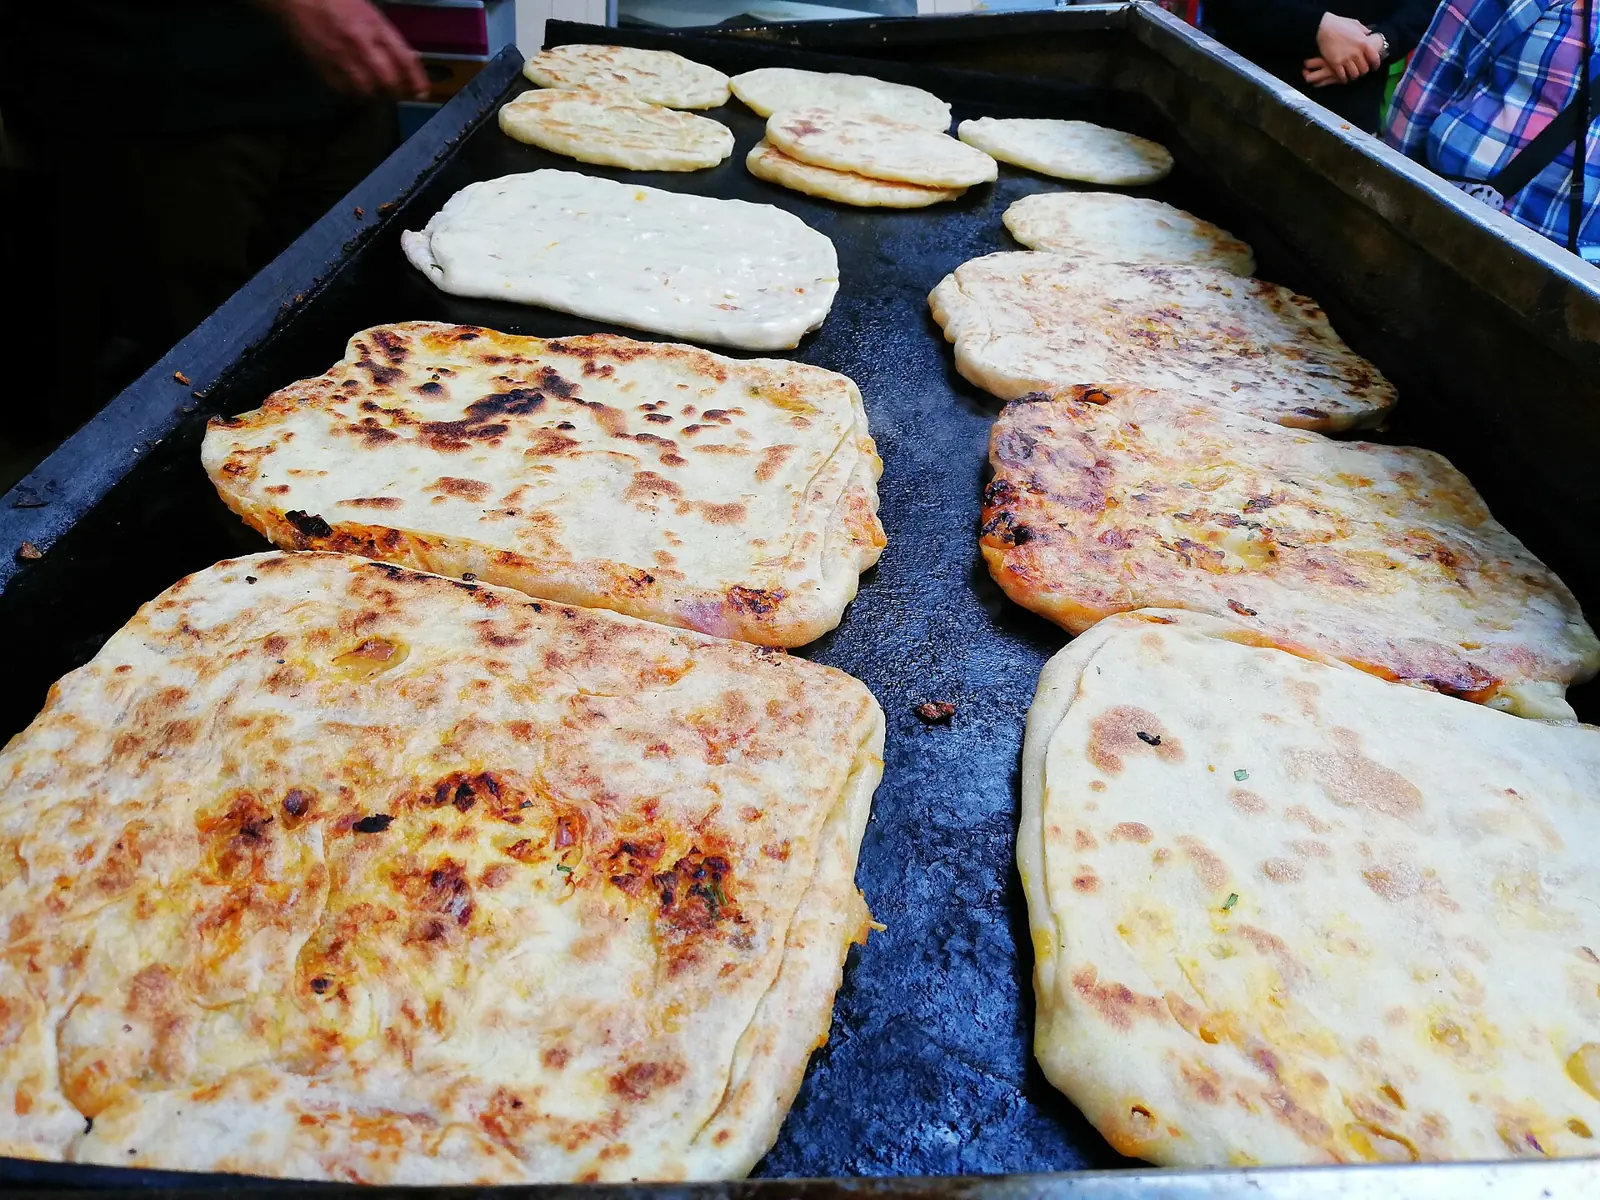
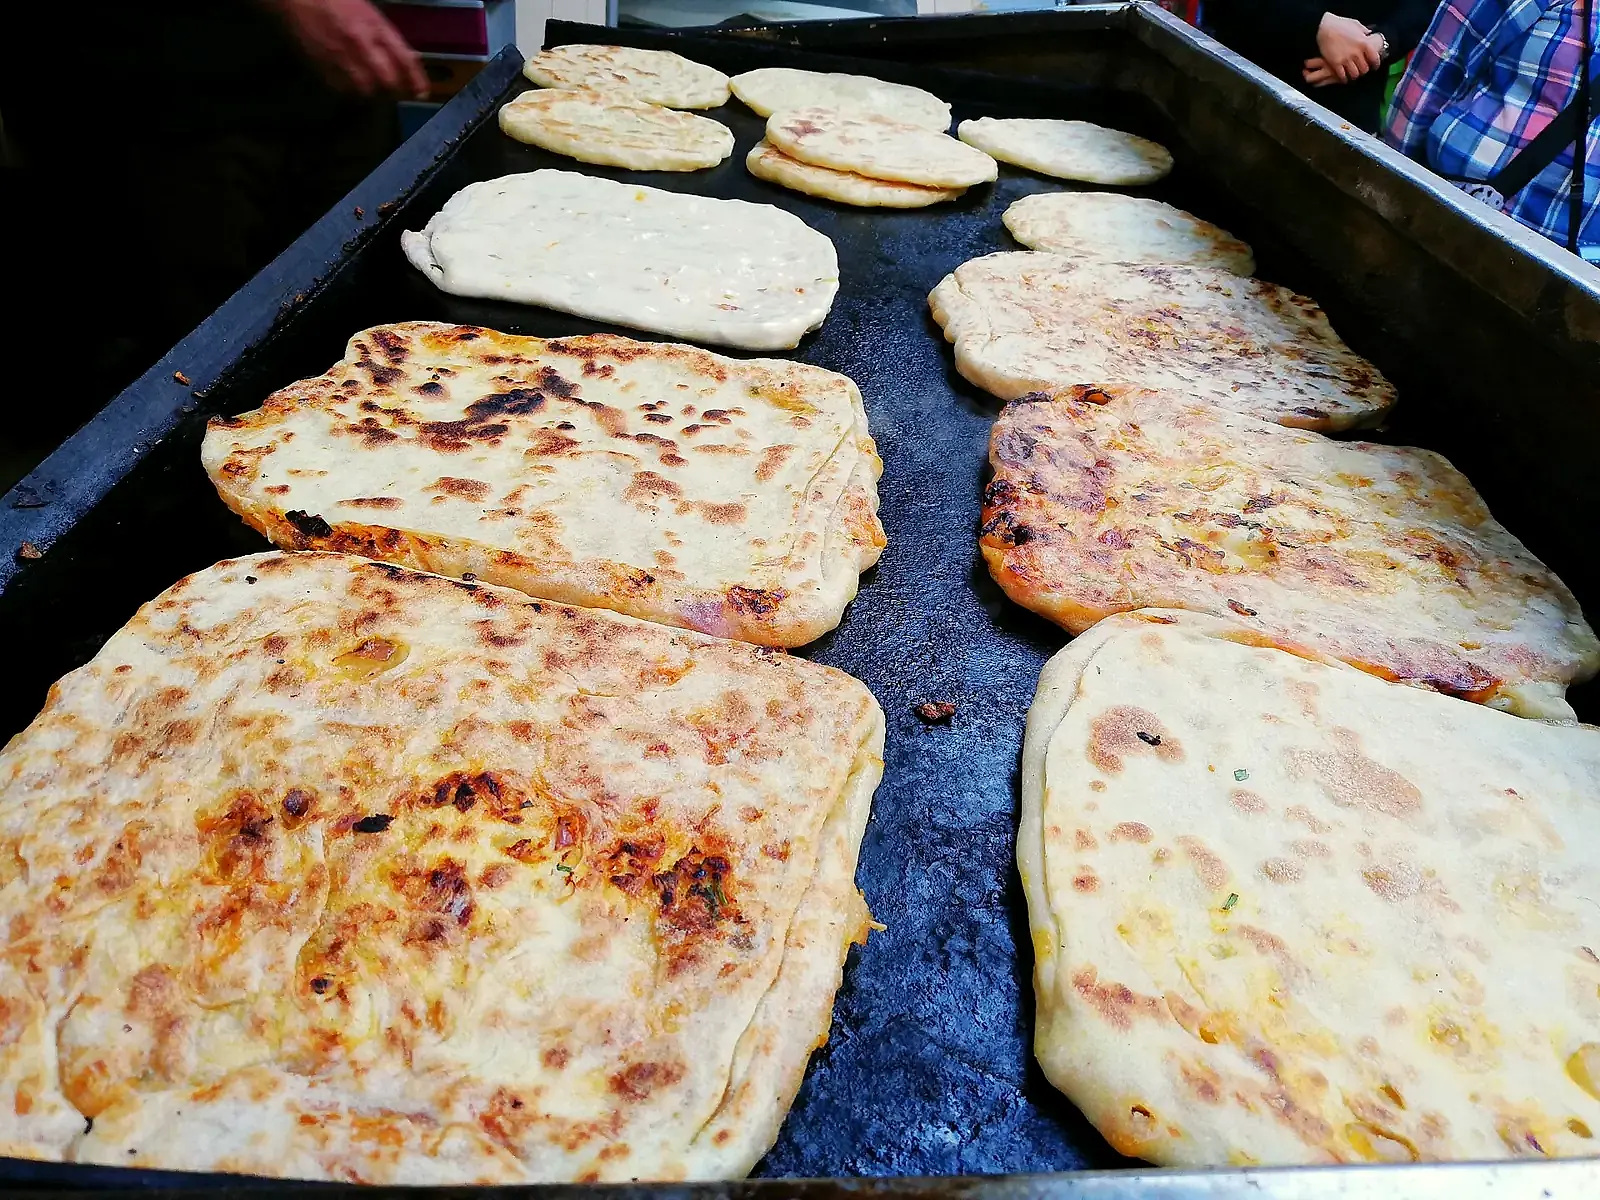
feat(media): apply a consistent grade to AWID food photos

diff --git a/packages/media/test/photo-crop.test.ts b/packages/media/test/photo-crop.test.ts
@@ -125,3 +125,35 @@ describe("photo crop encoding", () => {
     ).resolves.toEqual({ status: "rejected", reason: "content_type_mismatch" });
   });
 });
+
+it.each(["item", "cover"] as const)(
+  "[MER-14:codec] applies a warmer grade to %s photos while preserving logo colours",
+  async (kind) => {
+    const bytes = await sharp({
+      create: { width: 256, height: 192, channels: 3, background: "#888888" },
+    })
+      .png()
+      .toBuffer();
+    async function colour(photoKind: typeof kind | "logo") {
+      const photo = await cropPhoto({
+        bytes,
+        contentType: "image/png",
+        kind: photoKind,
+        crop: center,
+      });
+      if (photo.status !== "cropped") throw new Error("Missing crop");
+      const variant = photo.variants.find(
+        ({ width, format }) => width === 160 && format === "webp",
+      );
+      if (!variant) throw new Error("Missing WebP");
+      return sharp(variant.bytes)
+        .extract({ left: 50, top: 50, width: 1, height: 1 })
+        .raw()
+        .toBuffer();
+    }
+    const [red = 0, , blue = 0] = await colour(kind);
+    const [logoRed = 0, , logoBlue = 0] = await colour("logo");
+    expect(red - blue).toBeGreaterThan(5);
+    expect(Math.abs(logoRed - logoBlue)).toBeLessThanOrEqual(3);
+  },
+);

diff --git a/packages/media/src/photo-crop.ts b/packages/media/src/photo-crop.ts
@@ -5,6 +5,7 @@ import { rgbaToThumbHash } from "thumbhash";
 import type { DecodedRgba } from "./heic-decoder.js";
 import { decodePhoto, rawImage } from "./photo-decode.js";
 import type { PhotoInput, RejectedPhoto } from "./photo-decode.js";
+import { gradeFoodPhoto } from "./photo-style.js";
 
 type PhotoCrop = ReturnType<typeof mediaCropInput.parse>;
 type PhotoKind = keyof typeof photoRatios;
@@ -48,11 +49,11 @@ async function decodeCrop(input: CropPhotoInput, ratio: Dimensions) {
   if ("status" in rgba) return rgba;
 
   const height = (maximumVariantWidth * ratio.height) / ratio.width;
-  const bytes = await rawImage(rgba)
+  const crop = rawImage(rgba)
     .extract(cropRegion(rgba, ratio, input.crop))
-    .resize(maximumVariantWidth, height, { fit: "fill" })
-    .raw()
-    .toBuffer();
+    .resize(maximumVariantWidth, height, { fit: "fill" });
+  const photo = input.kind === "item" || input.kind === "cover" ? gradeFoodPhoto(crop) : crop;
+  const bytes = await photo.raw().toBuffer();
   return { bytes, width: maximumVariantWidth, height };
 }
 

diff --git a/apps/web/src/marketing/photo-credits.ts b/apps/web/src/marketing/photo-credits.ts
@@ -221,12 +221,4 @@ export const photoCredits = [
     licenceUrl: "https://creativecommons.org/licenses/by-sa/3.0",
     source: "https://commons.wikimedia.org/wiki/File:Smen_msemmen.jpg",
   },
-  {
-    file: "/preview-catalog/shawarma.webp",
-    title: "Shawarma in central Aleppo, Syria.jpg",
-    author: "Vyacheslav Argenberg",
-    licence: "CC BY 4.0",
-    licenceUrl: "https://creativecommons.org/licenses/by/4.0",
-    source: "https://commons.wikimedia.org/wiki/File:Shawarma_in_central_Aleppo,_Syria.jpg",
-  },
 ] as const;

diff --git a/apps/web/src/marketing/credits-page.tsx b/apps/web/src/marketing/credits-page.tsx
@@ -28,6 +28,9 @@ export async function CreditsPage({ locale }: { locale: Locale }) {
                   {credit.title.replace(/\.(jpe?g|png|webp)$/iu, "").replaceAll("_", " ")}
                 </strong>
                 <span>{credit.author}</span>
+                {credit.file.startsWith("/preview-catalog/") && (
+                  <span dir="auto">{translate("creditsFoodEdits")}</span>
+                )}
                 <span>
                   {credit.licenceUrl === null ? (
                     credit.licence

diff --git a/packages/media/src/photo-style.ts b/packages/media/src/photo-style.ts
@@ -1,0 +1,6 @@
+import type { Sharp } from "sharp";
+
+/** AWID's food grade. Keep whites near neutral and sharpen texture without hard halos. */
+export function gradeFoodPhoto(image: Sharp): Sharp {
+  return image.linear([1.05, 1.025, 0.99], [-3, -3, -4]).sharpen({ sigma: 0.65 });
+}

diff --git a/apps/web/src/discovery/preview-catalog.ts b/apps/web/src/discovery/preview-catalog.ts
@@ -238,7 +238,7 @@ const grill: RestaurantSeed = {
             "Flatbread, roast chicken, pickles.",
           ),
           priceDzd: 450,
-          photo: "shawarma",
+          photo: "chawarma",
         },
       ],
     },

diff --git a/docs/PHOTO_CREDITS.md b/docs/PHOTO_CREDITS.md
@@ -1,6 +1,6 @@
 # Photo credits
 
-Every photo below was viewed before use, downscaled to at most 1600 px on the long side and converted to WebP (quality 76). Files live in `apps/web/public/photos/algeria/` (places) and `apps/web/public/preview-catalog/` (dishes, with 320 px variants). Attribution-licensed photos must keep this credit (shown on the landing footer's credits link); share-alike photos are used unmodified apart from scaling and cropping.
+Every photo below was viewed before use, downscaled to at most 1600 px on the long side and converted to WebP (quality 76). Files live in `apps/web/public/photos/algeria/` (places) and `apps/web/public/preview-catalog/` (dishes, with 320 px variants). Attribution-licensed photos must keep this credit (shown on the landing footer's credits link); Algeria place photos are scaled and cropped. Dish photos also carry the AWID colour grade. Each adapted dish image remains under its listed source licence.
 
 | File | Size | Source (Wikimedia Commons) | Author | Licence |
 |---|---|---|---|---|
@@ -36,4 +36,3 @@ Every photo below was viewed before use, downscaled to at most 1600 px on the lo
 | `preview-catalog/karantika-sandwich.webp` | 1200×688 | [5 e 5.jpg](https://commons.wikimedia.org/wiki/File:5_e_5.jpg) | Tomberys | [CC BY-SA 4.0](https://creativecommons.org/licenses/by-sa/4.0) |
 | `preview-catalog/msemen.webp` | 1600×1061 | [Smen msemmen.jpg](https://commons.wikimedia.org/wiki/File:Smen_msemmen.jpg) | Lucyin | [CC BY-SA 3.0](https://creativecommons.org/licenses/by-sa/3.0) |
 | `preview-catalog/msemen-griddle.webp` | 1600×1200 | [Msemmem.jpg](https://commons.wikimedia.org/wiki/File:Msemmem.jpg) | Popo le Chien | [CC0](http://creativecommons.org/publicdomain/zero/1.0/deed.en) |
-| `preview-catalog/shawarma.webp` | 1600×1200 | [Shawarma in central Aleppo, Syria.jpg](https://commons.wikimedia.org/wiki/File:Shawarma_in_central_Aleppo,_Syria.jpg) | Vyacheslav Argenberg | [CC BY 4.0](https://creativecommons.org/licenses/by/4.0) |

diff --git a/docs/RESTAURANT_PHOTOS.md b/docs/RESTAURANT_PHOTOS.md
@@ -1,0 +1,10 @@
+# Taking photos for AWID
+
+- Use daylight from a window. Turn off ceiling lights and flash. Tap the dish to focus and hold the phone steady.
+- Photograph the portion you actually serve. Use a plain plate or a warm, neutral tabletop. Clear wrappers, clutter and people out of the frame.
+- For a dish, shoot horizontally at about 45 degrees, or straight above a flat plate. Leave space around the food for the 4:3 crop and square thumbnails.
+- For your cover, use a wide 16:9 composition. Keep the food near the centre so it survives the tighter Discovery crop. Upload logos separately as square images.
+- Aim for 1,280 pixels across after cropping. Upload the original from your camera. Avoid screenshots, social filters, text overlays and heavy zoom.
+- Check the preview. If the food still looks soft, too dark or oddly coloured, retake it with better light.
+
+AWID applies a light warm grade, gentle contrast and mild sharpening to dish photos and restaurant covers. Logos and application evidence retain their colours. To update an existing live photo, upload its original again.

diff --git a/docs/DESIGN.md b/docs/DESIGN.md
@@ -82,7 +82,7 @@ Arabic: no letter-spacing, italics or uppercase; check headings never clip.
 ## 6. Iconography and imagery
 
 - **Icons:** one in-repo set (`packages/ui/src/icons.tsx`), 1.75 px stroke at 24 px, round caps. Mirror only directional icons in RTL.
-- **Photos:** Wikimedia Commons, Unsplash or Pexels only, each viewed before use, converted to WebP, credited in `docs/PHOTO_CREDITS.md`. 4:3 cards, 1:1 thumbnails, 16:9 covers; explicit width and height; text over photos only with the scrim.
+- **Photos:** Wikimedia Commons, Unsplash or Pexels only, each viewed before use, converted to WebP, credited in `docs/PHOTO_CREDITS.md`. 4:3 cards and dish crops, 1:1 thumbnails and logos, 16:9 covers; use the shared warm grade for dishes and covers. See the [restaurant photo guide](RESTAURANT_PHOTOS.md). Use explicit width and height; text over photos only with the scrim.
 - **Empty states:** custom SVG illustrations in brand colours. No emoji as icons.
 - **Content:** realistic names, dishes, DA prices and reviews everywhere.
 

diff --git a/docs/progress/lane-a.md b/docs/progress/lane-a.md
@@ -362,3 +362,6 @@
 
 - 2026-11-12 · High · Merged the restore drill at `00501d9` after hosted CI. Integrated Lane B through `3fd6340`, including live reorder, pickup map, Discovery counts and filters, the new tagine and tracking fallback. Full workspace verification, the cash-pickup-to-cart journey and ten production browser checks passed.
   Next: verify the team preview and hosted checks on the integrated head. Lane B still has the scheduling control and Order again home rail. Staging recovery and release gates remain open.
+
+- 2026-11-12 · High · Merged customer PR #11 after hosted CI. Added a shared warm grade and sharpening to published dishes and covers, graded the fictional preview catalog, replaced its dim shawarma photo and documented restaurant capture guidance. All 29 focused tests and web and media typechecks passed.
+  Next: profile Discovery and Restaurant over throttled 4G, then work through haptics, copy, consistency, accessibility and the final visual review.
